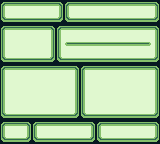
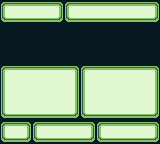
lots of small equip tweaks

Changed region(s): [[0.0, 0.1667, 1.0, 0.4444]]

diff --git a/maps/frame.tsx b/maps/frame.tsx
@@ -1,18 +1,48 @@
 <?xml version="1.0" encoding="UTF-8"?>
-<tileset version="1.10" tiledversion="1.11.0" name="frame" tilewidth="8" tileheight="8" tilecount="9" columns="3">
- <image source="../assets/ui/frame.png" width="24" height="24"/>
+<tileset version="1.10" tiledversion="1.11.0" name="frame" tilewidth="8" tileheight="8" tilecount="36" columns="6">
+ <image source="frame.png" width="48" height="48"/>
  <wangsets>
   <wangset name="Default" type="corner" tile="-1">
-   <wangcolor name="Box" color="#ff0000" tile="-1" probability="1"/>
+   <wangcolor name="Box 1" color="#ff0000" tile="-1" probability="1"/>
+   <wangcolor name="Box 2" color="#00ff00" tile="-1" probability="1"/>
+   <wangcolor name="Box 3" color="#0000ff" tile="-1" probability="1"/>
+   <wangcolor name="Box 4" color="#ff7700" tile="-1" probability="1"/>
    <wangtile tileid="0" wangid="0,0,0,1,0,0,0,0"/>
    <wangtile tileid="1" wangid="0,0,0,1,0,1,0,0"/>
    <wangtile tileid="2" wangid="0,0,0,0,0,1,0,0"/>
-   <wangtile tileid="3" wangid="0,1,0,1,0,0,0,0"/>
-   <wangtile tileid="4" wangid="0,1,0,1,0,1,0,1"/>
-   <wangtile tileid="5" wangid="0,0,0,0,0,1,0,1"/>
-   <wangtile tileid="6" wangid="0,1,0,0,0,0,0,0"/>
-   <wangtile tileid="7" wangid="0,1,0,0,0,0,0,1"/>
-   <wangtile tileid="8" wangid="0,0,0,0,0,0,0,1"/>
+   <wangtile tileid="3" wangid="0,0,0,2,0,0,0,0"/>
+   <wangtile tileid="4" wangid="0,0,0,2,0,2,0,0"/>
+   <wangtile tileid="5" wangid="0,0,0,0,0,2,0,0"/>
+   <wangtile tileid="6" wangid="0,1,0,1,0,0,0,0"/>
+   <wangtile tileid="7" wangid="0,1,0,1,0,1,0,1"/>
+   <wangtile tileid="8" wangid="0,0,0,0,0,1,0,1"/>
+   <wangtile tileid="9" wangid="0,2,0,2,0,0,0,0"/>
+   <wangtile tileid="10" wangid="0,2,0,2,0,2,0,2"/>
+   <wangtile tileid="11" wangid="0,0,0,0,0,2,0,2"/>
+   <wangtile tileid="12" wangid="0,1,0,0,0,0,0,0"/>
+   <wangtile tileid="13" wangid="0,1,0,0,0,0,0,1"/>
+   <wangtile tileid="14" wangid="0,0,0,0,0,0,0,1"/>
+   <wangtile tileid="15" wangid="0,2,0,0,0,0,0,0"/>
+   <wangtile tileid="16" wangid="0,2,0,0,0,0,0,2"/>
+   <wangtile tileid="17" wangid="0,0,0,0,0,0,0,2"/>
+   <wangtile tileid="18" wangid="0,0,0,3,0,0,0,0"/>
+   <wangtile tileid="19" wangid="0,0,0,3,0,3,0,0"/>
+   <wangtile tileid="20" wangid="0,0,0,0,0,3,0,0"/>
+   <wangtile tileid="21" wangid="0,0,0,4,0,0,0,0"/>
+   <wangtile tileid="22" wangid="0,0,0,4,0,4,0,0"/>
+   <wangtile tileid="23" wangid="0,0,0,0,0,4,0,0"/>
+   <wangtile tileid="24" wangid="0,3,0,3,0,0,0,0"/>
+   <wangtile tileid="25" wangid="0,3,0,3,0,3,0,3"/>
+   <wangtile tileid="26" wangid="0,0,0,0,0,3,0,3"/>
+   <wangtile tileid="27" wangid="0,4,0,4,0,0,0,0"/>
+   <wangtile tileid="28" wangid="0,4,0,4,0,4,0,4"/>
+   <wangtile tileid="29" wangid="0,0,0,0,0,4,0,4"/>
+   <wangtile tileid="30" wangid="0,3,0,0,0,0,0,0"/>
+   <wangtile tileid="31" wangid="0,3,0,0,0,0,0,3"/>
+   <wangtile tileid="32" wangid="0,0,0,0,0,0,0,3"/>
+   <wangtile tileid="33" wangid="0,4,0,0,0,0,0,0"/>
+   <wangtile tileid="34" wangid="0,4,0,0,0,0,0,4"/>
+   <wangtile tileid="35" wangid="0,0,0,0,0,0,0,4"/>
   </wangset>
  </wangsets>
 </tileset>

diff --git a/plugins/Game Specific/engine/src/handle_equip_menu.c b/plugins/Game Specific/engine/src/handle_equip_menu.c
@@ -23,13 +23,6 @@ inline void clearChSection(UBYTE x, UBYTE y, UBYTE w, UBYTE h) {
 inline void screenf(unsigned char *d, UBYTE x, UBYTE y) {
   clearChSection(x, y, strlen(d), 1);
   for (UBYTE i = 0; i < strlen(d); i++) {
-    // if(d[i] == '\n'){
-    //     for(int w=0;w<wrap;w++){
-    //         d[i+w] = ReadBankedUBYTE(bg_font.recode_table + ' ',
-    //         bg_font_bank); d[i+w] += start_of_bkg_vram;
-    //     }
-    //     continue;
-    // }
     UBYTE j = d[i];
     d[i] = ReadBankedUBYTE(bg_font.recode_table + j, bg_font_bank);
     d[i] += start_of_bkg_vram;
@@ -42,7 +35,7 @@ void loadStatsArea(SCRIPT_CTX *THIS) OLDCALL BANKED {
   THIS;
   clearAttrsSection(0, 8, 10, 7);
   setAttrsSectionColor(0, 8, 10, 7, 1);
-  clearChSection(1, 9, 8, 5);
+  // clearChSection(1, 9, 8, 5);
 
   unsigned char strength[9] = "STR   10";
   unsigned char agility[9] = "AGL    8";
@@ -76,42 +69,8 @@ void loadSubStatsArea(SCRIPT_CTX *THIS) OLDCALL BANKED {
 }
 
 
-void loadEquipMenu(SCRIPT_CTX *THIS) OLDCALL BANKED {
-  THIS;
 
-  unsigned char name[7] = "Fred";
-  screenf(name, 1, 1);
-
-  unsigned char hp[11] = "HP 999/999";
-  screenf(hp, 9, 1);
-
-  unsigned char weapon[12] = "W Nunchucks";
-  weapon[1] = 150;
-  screenf(weapon, 8, 4);
-  unsigned char armor[12] = "A Cloth";
-  armor[1] = 150;
-  screenf(armor, 8, 6);
-
-  unsigned char lv_label[3] = "Lv";
-  screenf(lv_label, 1, 15);
-  unsigned char total_exp_label[] = "EXP";
-  screenf(total_exp_label, 5, 15);
-  unsigned char next_exp_label[] = "NxtLv";
-  screenf(next_exp_label, 13, 15);
-
-  unsigned char lv[] = "49";
-  unsigned char total_exp[] = "956841";
-  unsigned char next_exp[] = " 32800";
-
-  screenf(lv, 1, 16);
-  screenf(total_exp, 5, 16);
-  screenf(next_exp, 13, 16);
-
-  loadStatsArea(THIS);
-  loadSubStatsArea(THIS);
-}
-
-inline void write_weapon_name(BYTE item_id, unsigned char *item_s) {
+void write_weapon_name(BYTE item_id, unsigned char *item_s) OLDCALL BANKED{
   // TODO should display item type symbol then name
   // Also should make so and so wide
   // Max Count is 99 I guess
@@ -142,7 +101,7 @@ inline void write_weapon_name(BYTE item_id, unsigned char *item_s) {
   }
 }
 
-inline void write_armor_name(BYTE item_id, unsigned char *item_s) {
+void write_armor_name(BYTE item_id, unsigned char *item_s) OLDCALL BANKED{
   // TODO should display item type symbol then name
   // Also should make so and so wide
   // Max Count is 99 I guess
@@ -163,6 +122,50 @@ inline void write_armor_name(BYTE item_id, unsigned char *item_s) {
     strcat(item_s, "CHAIN");
     break;
   }
+
+}
+void loadEquipMenu(SCRIPT_CTX *THIS) OLDCALL BANKED {
+  THIS;
+
+  unsigned char name[7] = "Fred";
+  screenf(name, 1, 1);
+
+  unsigned char hp[11] = "HP 999/999";
+  screenf(hp, 9, 1);
+
+  unsigned char weapon[9]="";
+  write_weapon_name(1, weapon);
+  screenf(weapon, 8, 3);
+  unsigned char armor[9]="";
+  write_armor_name(1, armor);
+  screenf(armor, 8, 4);
+  unsigned char shield[9]="";
+  add_armor_sym(shield, SHIELD);
+  screenf(shield, 8, 5);
+  unsigned char helmet[9] = "";
+  add_armor_sym(helmet, HELMET);
+  screenf(helmet, 8, 6);
+  unsigned char gloves[9] = "";
+  add_armor_sym(gloves, GAUNTLET);
+  screenf(gloves, 8, 7);
+
+  unsigned char lv_label[3] = "Lv";
+  screenf(lv_label, 1, 15);
+  unsigned char total_exp_label[] = "EXP";
+  screenf(total_exp_label, 5, 15);
+  unsigned char next_exp_label[] = "NxtLv";
+  screenf(next_exp_label, 13, 15);
+
+  unsigned char lv[] = "49";
+  unsigned char total_exp[] = "956841";
+  unsigned char next_exp[] = " 32800";
+
+  screenf(lv, 1, 16);
+  screenf(total_exp, 5, 16);
+  screenf(next_exp, 13, 16);
+
+  loadStatsArea(THIS);
+  loadSubStatsArea(THIS);
 }
 
 void loadEquipWeaponList(SCRIPT_CTX *THIS) OLDCALL BANKED {
